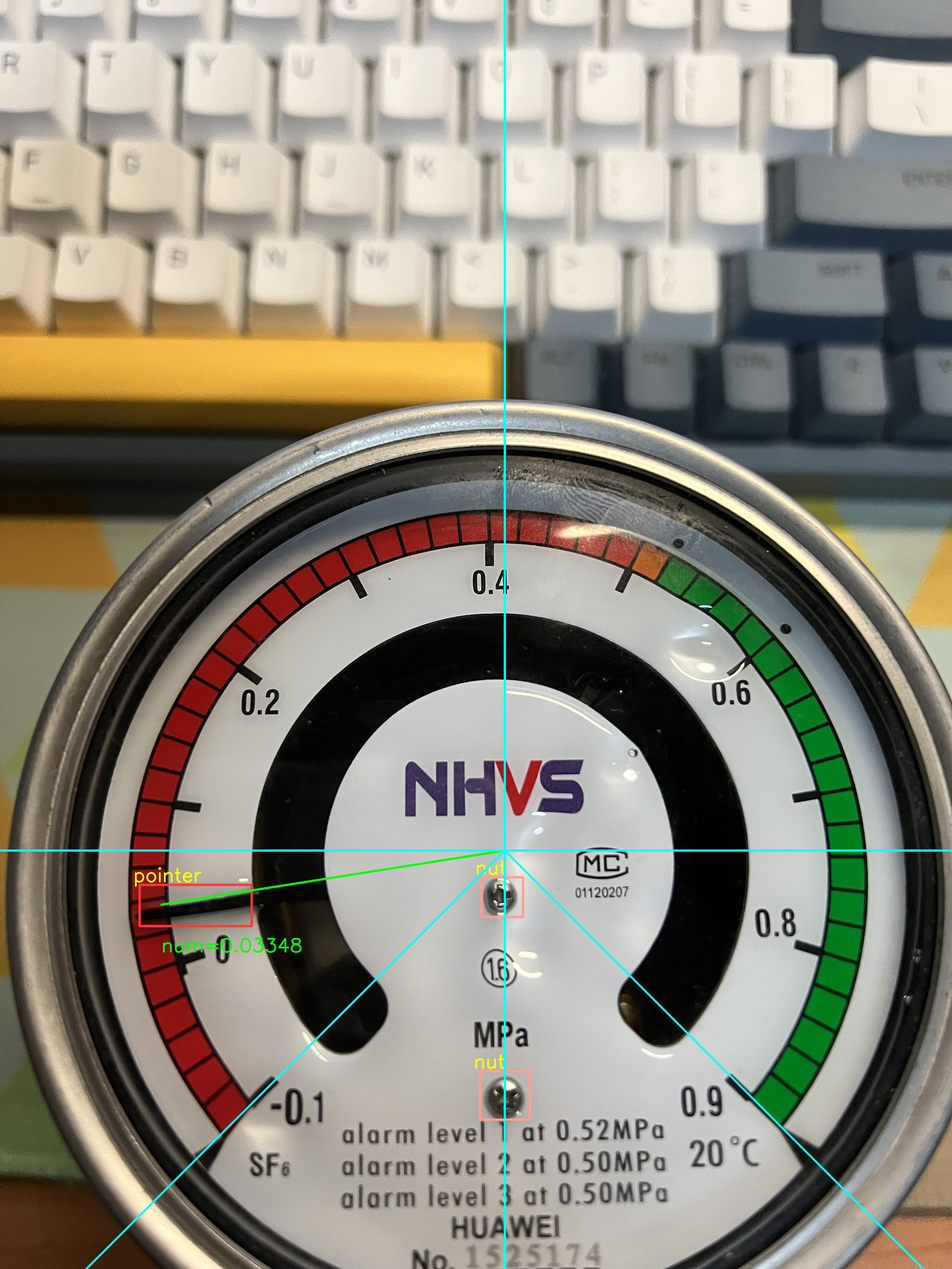
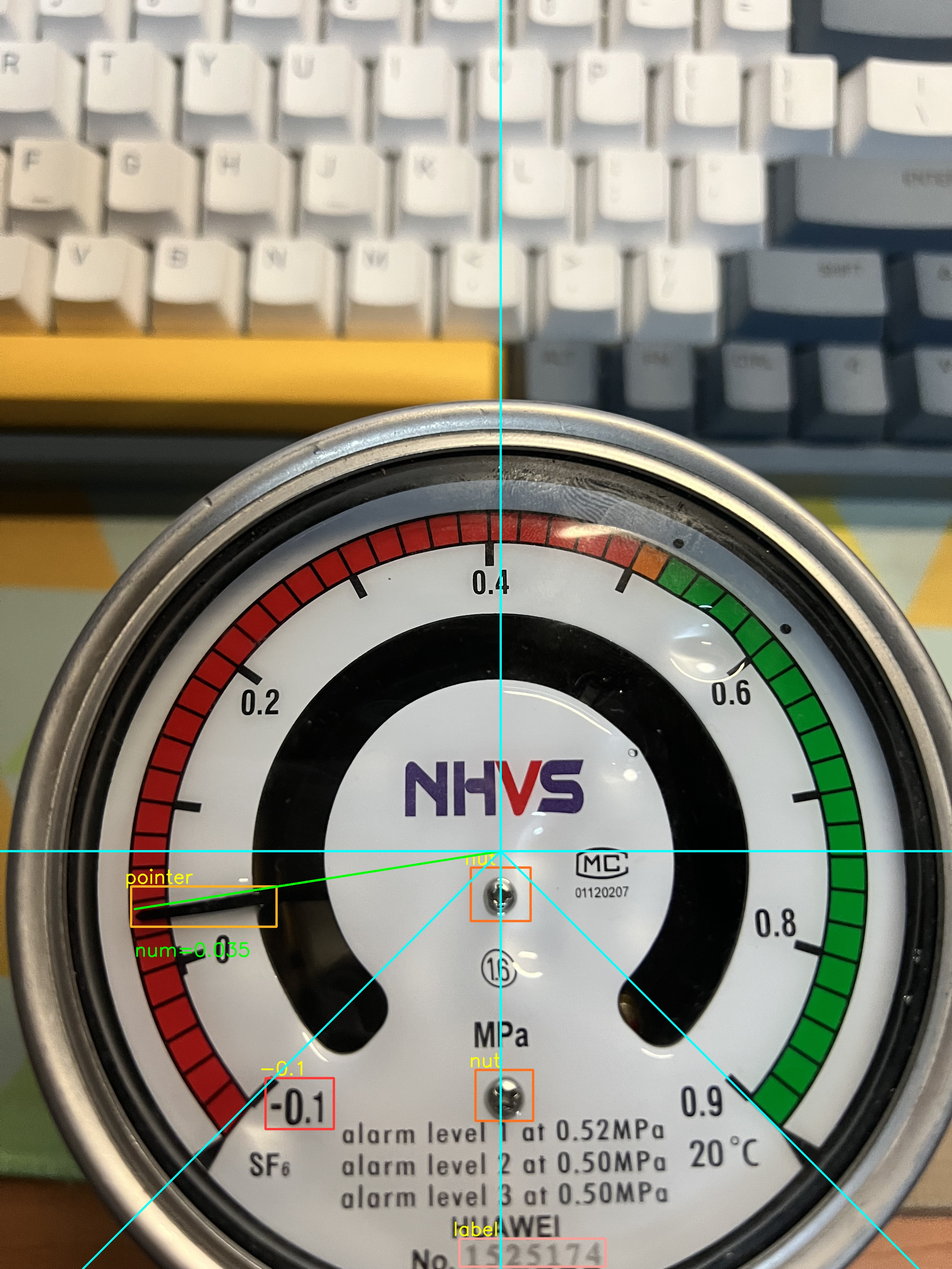
改进了指针点的标定方法(采取霍夫直线两端坐标中点)，改善读数方法，调整为以斜率比和角度比的平均值作为读书结果

diff --git a/meter_read.py b/meter_read.py
@@ -16,9 +16,10 @@ def find_center(xy1, xy2, x_hat):
 def draw_line(src_img, center_nut, pointer):
     show = True
     err = False
+
     center = center_nut
-    bias = 125  # 需修正的参数
-    # print(src_img.shape)
+    bias = 0  # 需修正的参数
+
     if src_img is None:
         return src_img
 
@@ -45,12 +46,14 @@ def draw_line(src_img, center_nut, pointer):
     if True:
         center = find_center(xy[0], xy[1], center_nut[0])
 
-    pointer[0] = src_img.shape[1] / 2 - 1000  # 重新标定指针
-    pointer[1] = find_center(xy[0], center, src_img.shape[1] / 2 - 1000)[1]
+    # pointer[0] = src_img.shape[1] / 2 - 1000  # 重新标定指针
+    # pointer[1] = find_center(xy[0], center, src_img.shape[1] / 2 - 1000)[1] + bias
+
+    pointer[0] = (xy[0][0] + xy[1][0]) // 2
+    pointer[1] = (xy[0][1] + xy[1][1]) // 2
 
     # point[0] = xy[0][0]  # 重新修正
     # point[1] = xy[0][1]
-
 
     # while center[0] > src_img.shape[0] or center[1] > src_img.shape[1]:
     #     center[0] = center[0] // 2
@@ -89,8 +92,8 @@ def draw_line(src_img, center_nut, pointer):
 
     cv2.line(src_img, (center[0], center[1]), (int(r_x), int(r_y)), (255, 255, 0), 5)
 
-    
-    print(center)
+
+    # print(center)
     a = [r_x - center[0], r_y - center[1]]  # 重新标定以表盘中心为原点的坐标
 
     b = [pointer[0] - center[0], pointer[1] - center[1]]  # 重新标定以表盘中心为原点的坐标
@@ -99,10 +102,10 @@ def draw_line(src_img, center_nut, pointer):
         (a[0] * b[0] + a[1] * b[1]) / (math.sqrt(a[0] ** 2 + a[1] ** 2) * math.sqrt(b[0] ** 2 + b[1] ** 2)))
 
     # print(a, b)
-    print(f'beta={beta * 180 / math.pi}')
+    # print(f'beta={beta * 180 / math.pi}')
 
-    print(f'center = {center[0], center[1]}')
-    print(f'pointer = {pointer[0], pointer[1]}')
+    # print(f'center = {center[0], center[1]}')
+    # print(f'pointer = {pointer[0], pointer[1]}')
 
     k = -(center[1] - pointer[1]) / (center[0] - pointer[0])
     print('k = %f' % k)
@@ -110,10 +113,15 @@ def draw_line(src_img, center_nut, pointer):
     eps = math.radians(45) - math.atan(k)  # (180 - 98) / 2
 
     ra = 1 / math.radians(270)
-    num = ra * eps - 0.1
-    print(f'num = {num}')
+    num_by_k = ra * eps - 0.1
+    num_by_angle = (beta / math.radians(270) * 1 - 0.1) * 0.1
+    print(f'num = {num_by_k}')
+    print(f'num by angle = {num_by_angle}')
 
-    cv2.putText(src_img, f'num={num:.4f}', (pointer[0], pointer[1] + 150), cv2.FONT_HERSHEY_SIMPLEX, 2, (0, 255, 0),
+    avg = (num_by_k + num_by_angle) / 2
+    print(f'avg = {avg}')
+
+    cv2.putText(src_img, f'num={avg:.3f}', (pointer[0], pointer[1] + 150), cv2.FONT_HERSHEY_SIMPLEX, 2, (0, 255, 0),
                 thickness=3, lineType=cv2.LINE_AA)
 
     if show:

diff --git a/yolov5_dnn.py b/yolov5_dnn.py
@@ -32,7 +32,7 @@ colors = Colors()
 
 class yolov5:
     def __init__(self, onnx_path, confThreshold=0.25, nmsThreshold=0.45):
-        self.classes = ['pointer', 'nut']
+        self.classes = ['-0.1', 'label', 'nut', 'pointer']
         self.colors = [np.random.randint(0, 255, size=3).tolist() for _ in range(len(self.classes))]
         num_classes = len(self.classes)
         self.anchors = [[10, 13, 16, 30, 33, 23], [30, 61, 62, 45, 59, 119], [116, 90, 156, 198, 373, 326]]
@@ -133,7 +133,7 @@ class yolov5:
         y[:, 3] = x[:, 1] + x[:, 3] / 2  # bottom right y
         return y
 
-    def non_max_suppression(self, prediction, conf_thres=0.25, agnostic=False):  # 25200 = 20*20*3 + 40*40*3 + 80*80*3
+    def non_max_suppression(self, prediction, conf_thres=0.5, agnostic=False):  # 25200 = 20*20*3 + 40*40*3 + 80*80*3
         xc = prediction[
                  ..., 4] > conf_thres  # candidates,获取置信度，prediction为所有的预测结果.shape(1, 25200, 21),batch为1，25200个预测结果，21 = x,y,w,h,c + class个数
         # Settings

diff --git a/pointer_process.py b/pointer_process.py
@@ -36,6 +36,7 @@ def draw_line(line, src_img):
     return flag, [[sum_x1, sum_y1], [sum_x2, sum_y2]], src_img
 
 
+#  可以考虑裁剪长边来增加霍夫的稳定性
 def find_lines(pointer_img, src_img, show=False):
     # 所有阈值都要细调
 
@@ -45,7 +46,7 @@ def find_lines(pointer_img, src_img, show=False):
     #     return False, [[0, 0], [0, 0]]
     img_canny = cv2.Canny(pointer_img, 160, 205)
 
-    img_blur = cv2.GaussianBlur(img_canny, (3, 3), 0)
+    img_blur = cv2.GaussianBlur(img_canny, (5, 5), 1)
 
     img_erode = cv2.erode(img_blur, (5, 5), iterations=1)
 

diff --git a/main.py b/main.py
@@ -1,7 +1,7 @@
 from yolov5_dnn import mult_test
 
 if __name__ == "__main__":
-    onnx_path = r'weights/best-2.onnx'
+    onnx_path = r'weights/best_roboflow.onnx'
     input_path = r'./input_image'
     save_path = r'./output_image'
 
